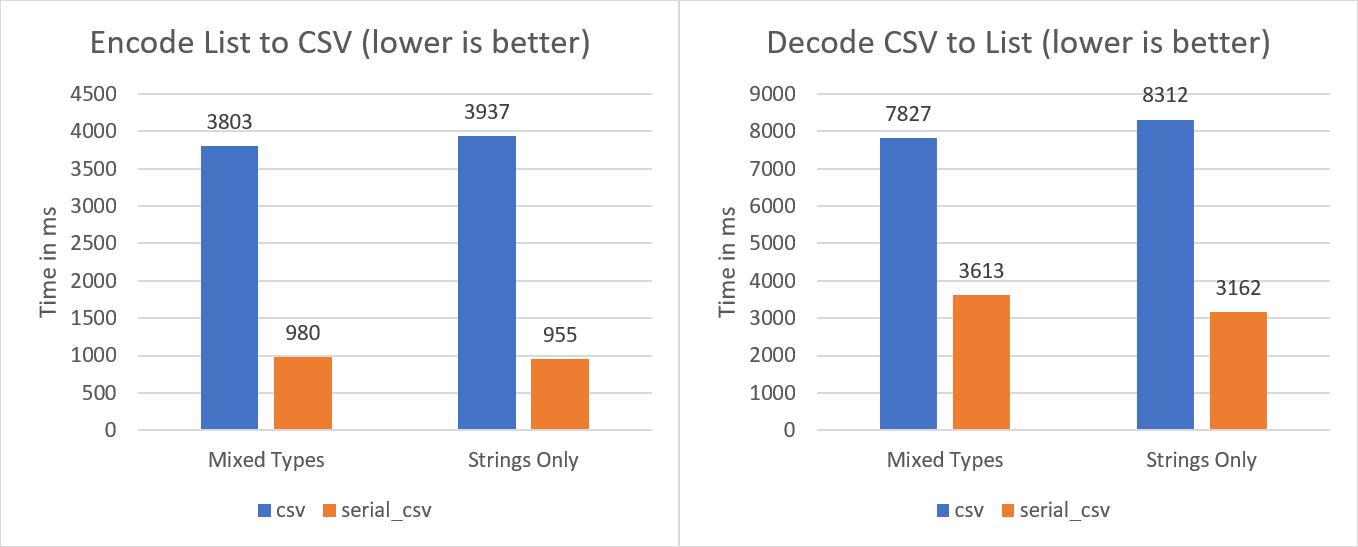
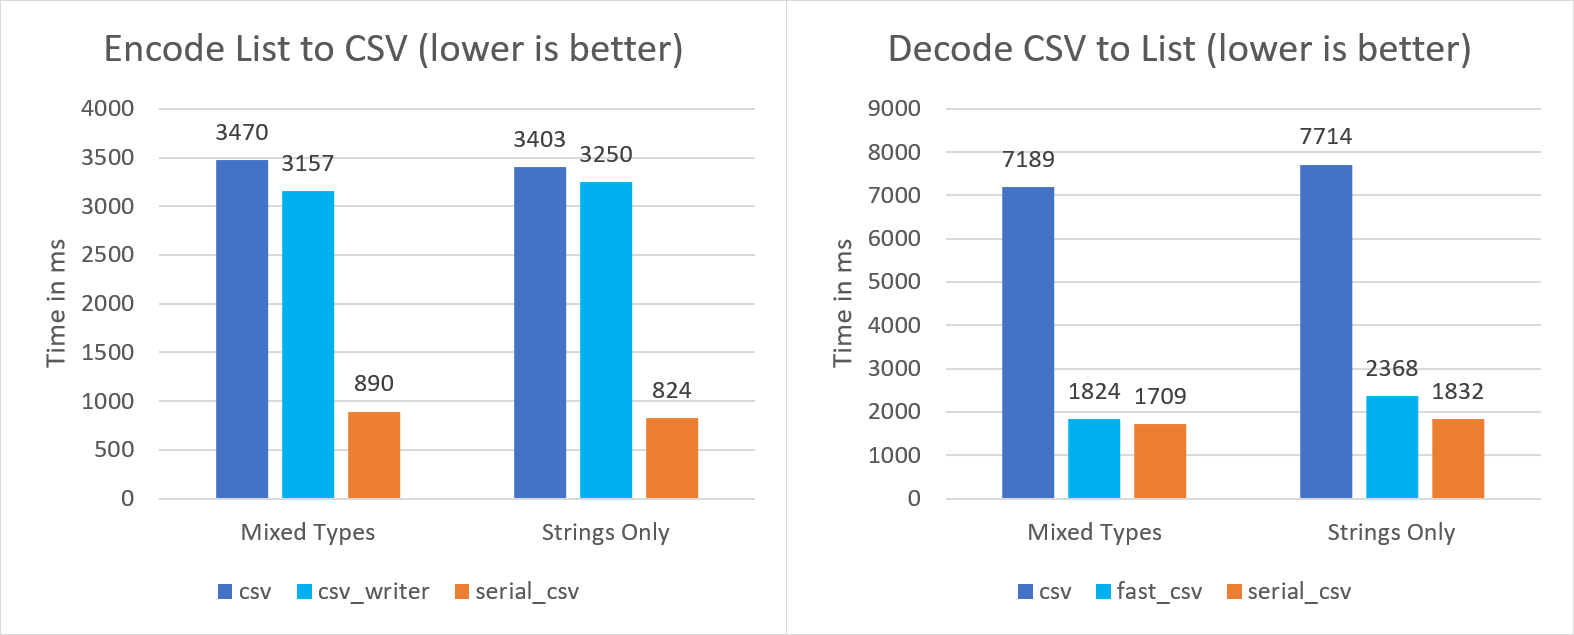
docs: update benchmark

diff --git a/example/benchmark.dart b/example/benchmark.dart
@@ -1,5 +1,7 @@
 import 'package:csv/csv.dart';
+import 'package:csvwriter/csvwriter.dart';
 import 'package:serial_csv/serial_csv.dart';
+import 'package:fast_csv/fast_csv.dart' as fast_csv;
 
 void main() {
   benchmarkParseStrings();
@@ -11,9 +13,21 @@ void benchmarkParseTyped() {
   const iterations = 2000;
 
   _benchmark(
+    name: 'heat-up',
+    iterations: iterations,
+    func: () => fast_csv.parse(input),
+  );
+
+  _benchmark(
     name: 'SerialCsv.decode',
     iterations: iterations,
     func: () => SerialCsv.decode(input),
+  );
+
+  _benchmark(
+    name: 'fast_csv',
+    iterations: iterations,
+    func: () => fast_csv.parse(input),
   );
 
   _benchmark(
@@ -29,6 +43,12 @@ void benchmarkParseStrings() {
   const iterations = 2000;
 
   _benchmark(
+    name: 'heat-up',
+    iterations: iterations,
+    func: () => fast_csv.parse(input),
+  );
+
+  _benchmark(
     name: 'SerialCsv.decode',
     iterations: iterations,
     func: () => SerialCsv.decode(input),
@@ -38,6 +58,12 @@ void benchmarkParseStrings() {
     name: 'SerialCsv.decodeStringList',
     iterations: iterations,
     func: () => SerialCsv.decodeStringList(input),
+  );
+
+  _benchmark(
+    name: 'fast_csv',
+    iterations: iterations,
+    func: () => fast_csv.parse(input),
   );
 
   _benchmark(
@@ -53,9 +79,28 @@ void benchmarkEncode() {
   final input = List.generate(1000, (_) => row);
 
   _benchmark(
+    name: 'heat-up',
+    iterations: iterations,
+    func: () => const ListToCsvConverter().convert(input),
+  );
+
+  _benchmark(
     name: 'SerialCsv.encode',
     iterations: iterations,
     func: () => SerialCsv.encode(input),
+  );
+
+  _benchmark(
+    name: 'csvwriter',
+    iterations: iterations,
+    func: () {
+      final buffer = StringBuffer();
+      final writer = CsvWriter(buffer, 5, endOfLine: '\n');
+      for (final row in input) {
+        writer.writeData(data: row);
+      }
+      return buffer.toString();
+    },
   );
 
   _benchmark(
@@ -71,9 +116,28 @@ void benchmarkEncodeStrings() {
   final input = List.generate(1000, (_) => row);
 
   _benchmark(
+    name: 'heat-up',
+    iterations: iterations,
+    func: () => const ListToCsvConverter().convert(input),
+  );
+
+  _benchmark(
     name: 'SerialCsv.encodeStringList',
     iterations: iterations,
     func: () => SerialCsv.encodeStringList(input),
+  );
+
+  _benchmark(
+    name: 'csvwriter',
+    iterations: iterations,
+    func: () {
+      final buffer = StringBuffer();
+      final writer = CsvWriter(buffer, 5, endOfLine: '\n');
+      for (final row in input) {
+        writer.writeData(data: row);
+      }
+      return buffer.toString();
+    },
   );
 
   _benchmark(

diff --git a/README.md b/README.md
@@ -10,15 +10,17 @@ High performance CSV encoder and decoder with retained types and nullability.
 
 This package is intended to quickly encode and decode csv while keeping all type information.
 
-The strict nature allows for high performance during encoding and decoding.
+Its strict nature enhances performance during encoding and decoding.
 
-The following data types are supported and retained: `String`, `int`, `double`, `bool`, `null`.
+During this process, the following data types are preserved: `String`, `int`, `double`, `bool`, `null`.
 
 ## Benchmark
 
 The benchmark was run with 2 million rows (1000 rows x 2000 iterations) on an i7-10750H.
 
-For comparison, the famous [csv](https://pub.dev/packages/csv) package was used.
+For comparison, the packages [csv](https://pub.dev/packages/csv) (v5.0.2),
+[fast_csv](https://pub.dev/packages/fast_csv) (v0.1.44),
+and [csvwriter](https://pub.dev/packages/csvwriter) (v1.3.0) were used.
 
 ![benchmark](https://raw.githubusercontent.com/Tienisto/serial_csv/main/assets/benchmark.png)
 
